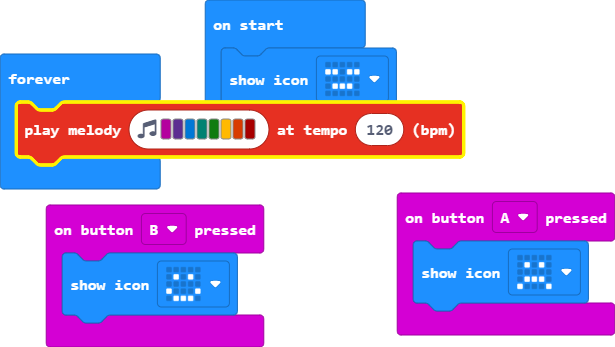
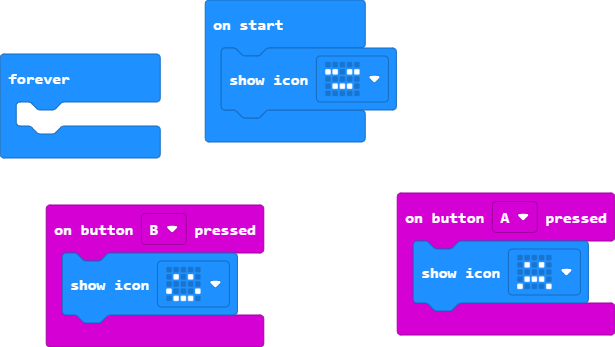
Update main.blocks, main.ts

Changed region(s): [[0.0, 0.2882, 0.7724, 0.5476]]

diff --git a/main.ts b/main.ts
@@ -6,5 +6,5 @@ input.onButtonPressed(Button.B, function () {
 })
 basic.showIcon(IconNames.Asleep)
 basic.forever(function () {
-    music.playMelody("C D E F G A B C5 ", 120)
+	
 })
